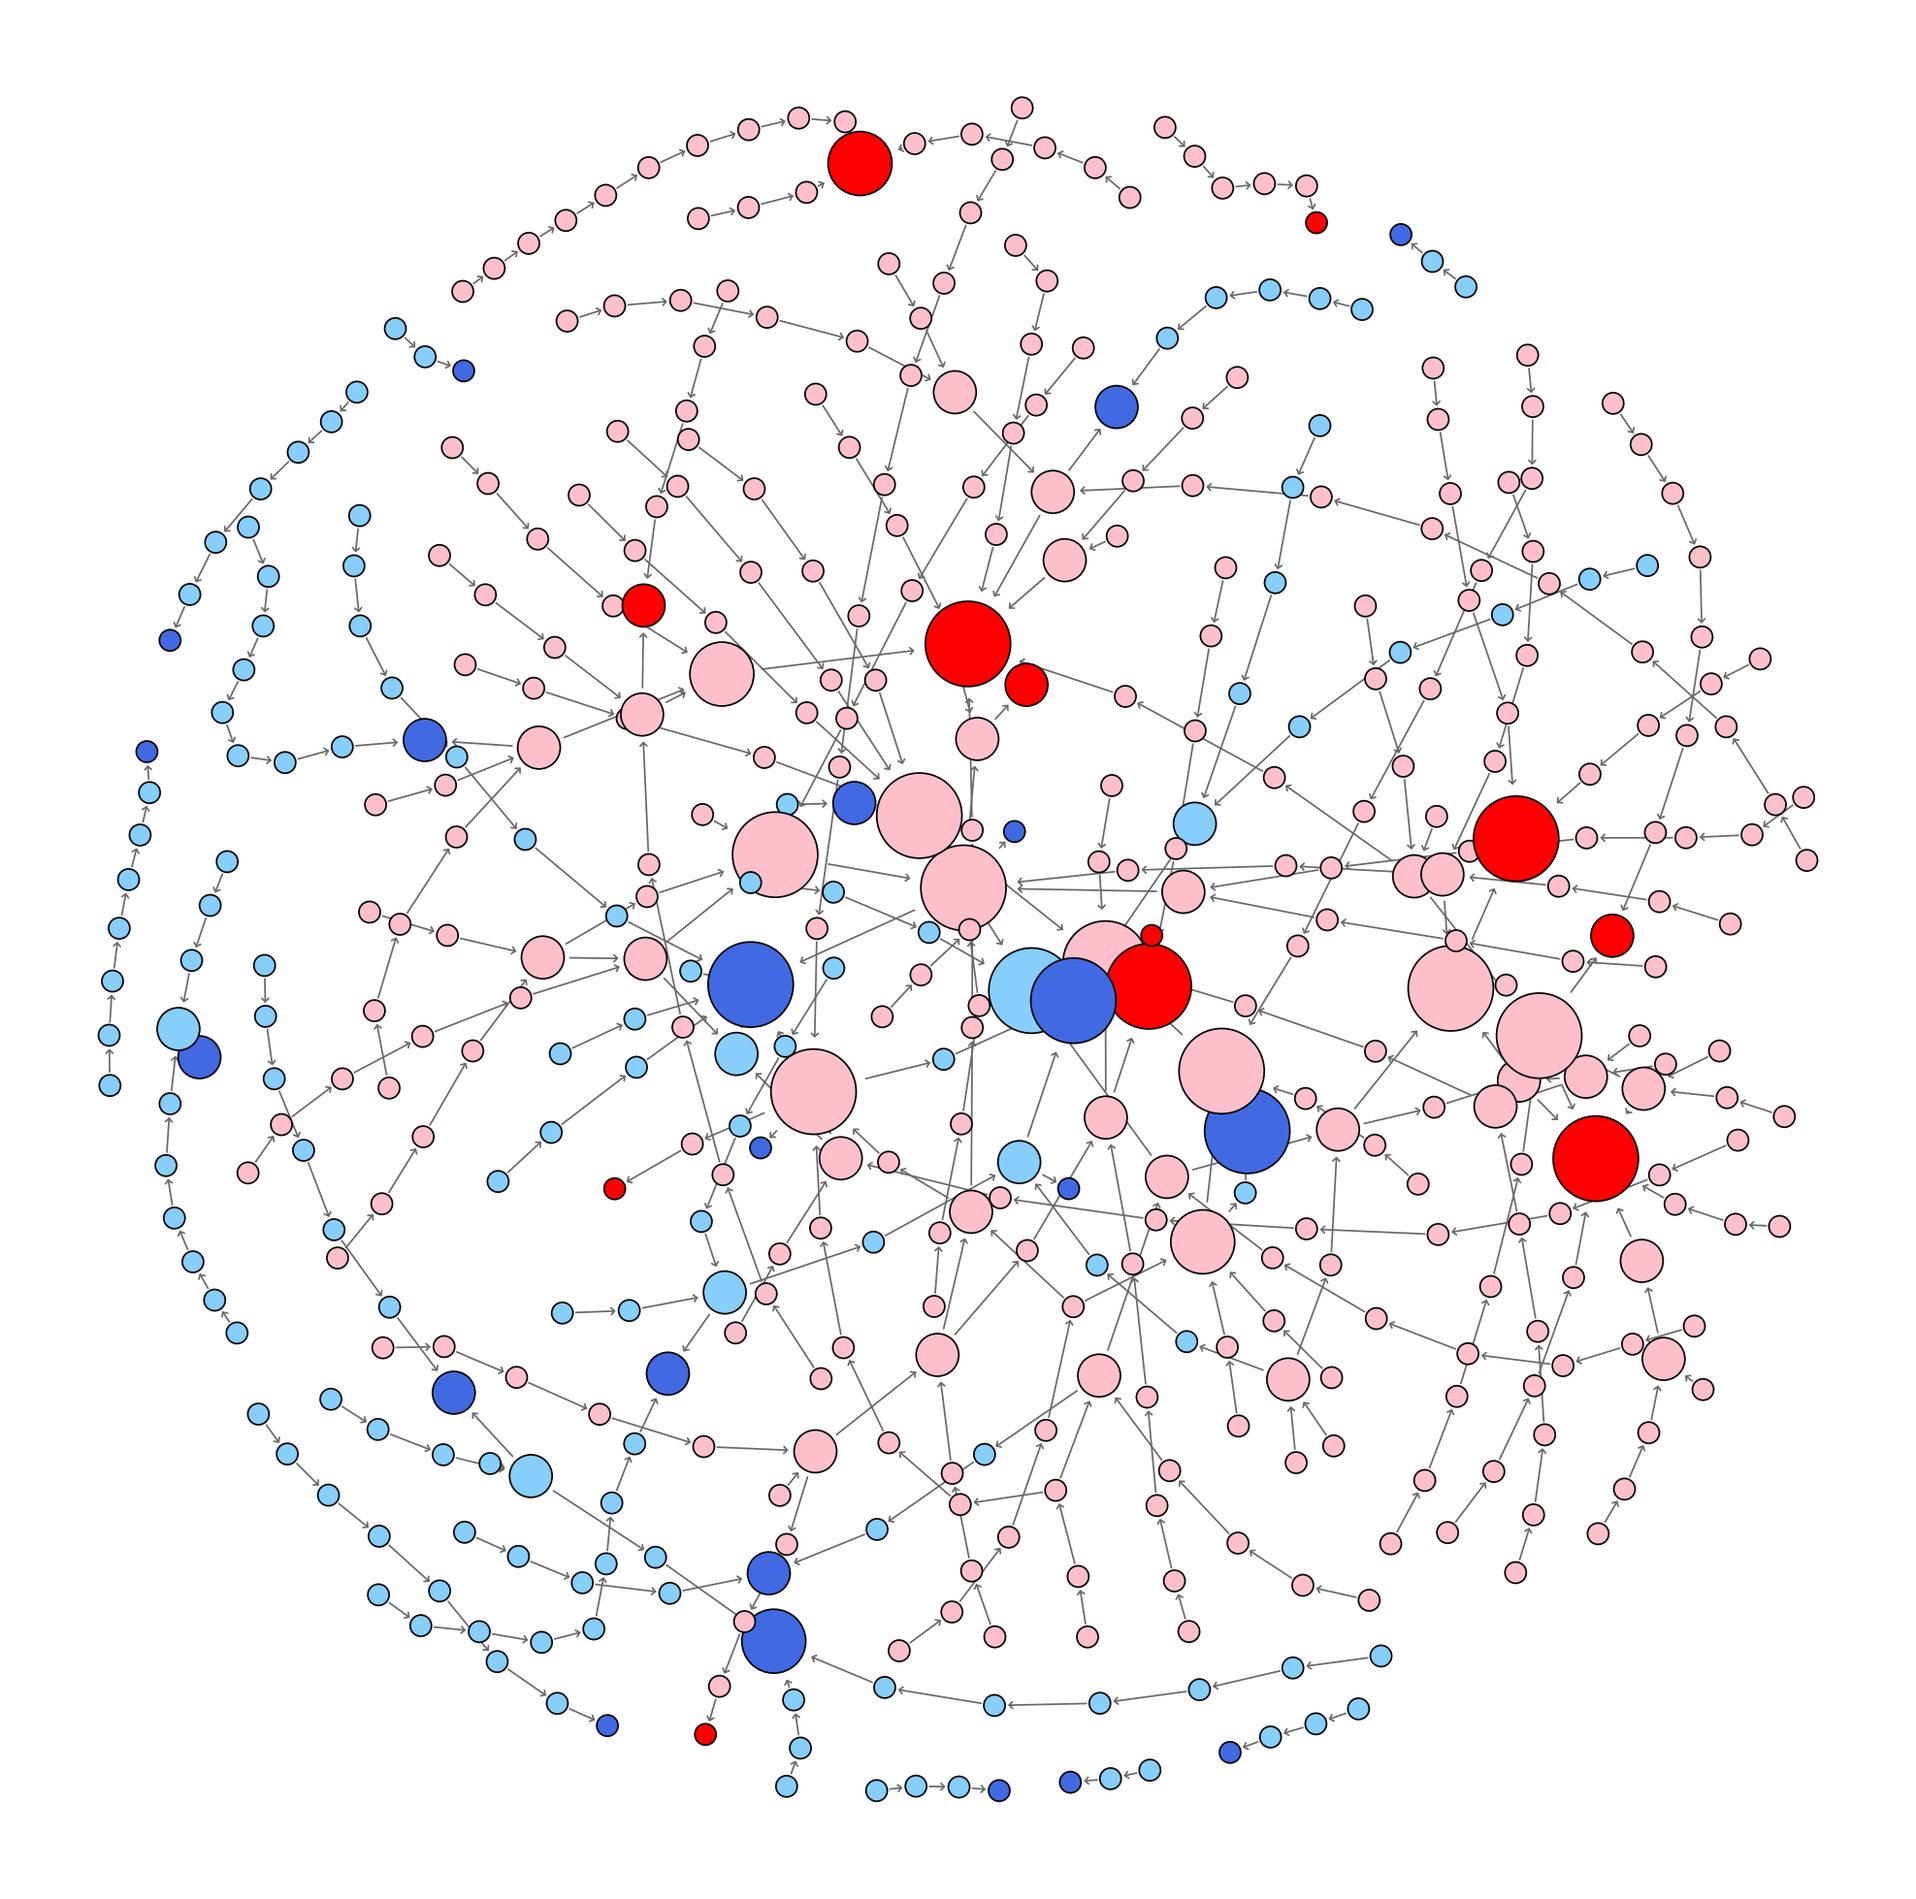
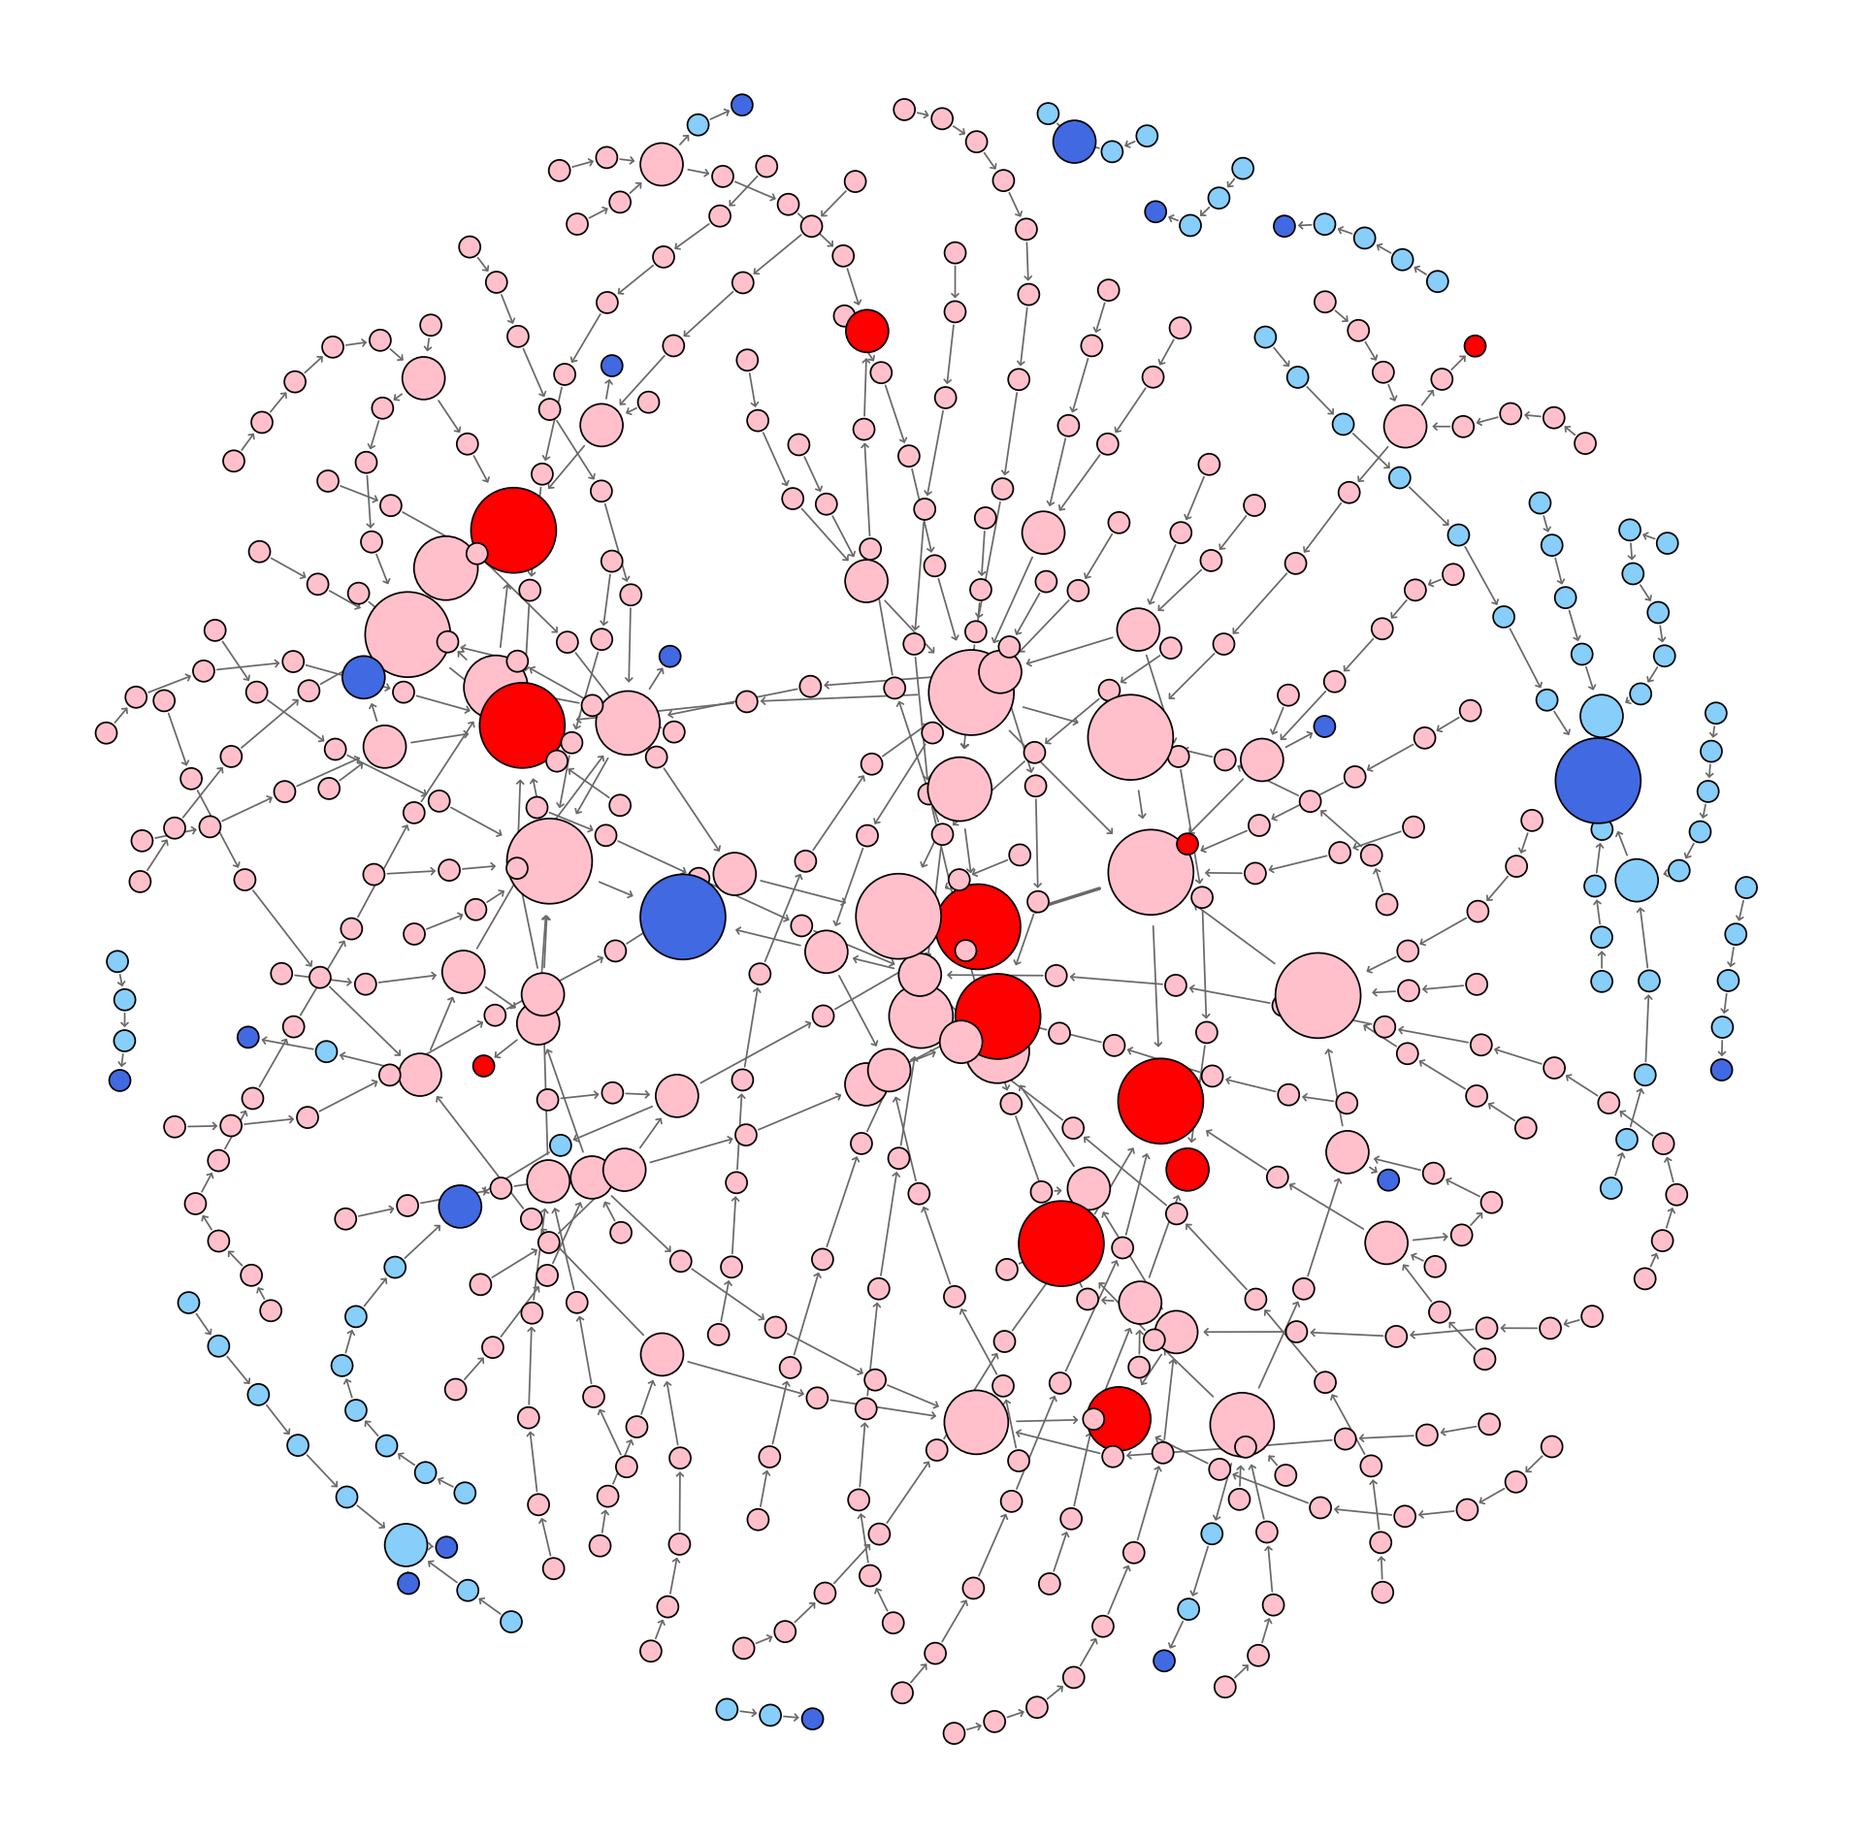
chore: regenerate example figures (#61)

Changed region(s): [[0.0309, 0.0311, 0.9581, 0.9647]]

diff --git a/examples/number_partitioning/plot_lons.py b/examples/number_partitioning/plot_lons.py
@@ -1,6 +1,7 @@
 from pathlib import Path
 
 import matplotlib.pyplot as plt
+from matplotlib.lines import Line2D
 from npp_paths import IMAGES_DIR
 from PIL import Image, ImageOps
 
@@ -12,6 +13,7 @@ from lonkit import (
     LONVisualizer,
     NumberPartitioning,
 )
+from lonkit.visualization import CMLON_LEGEND, COLORS
 
 N = 20
 INSTANCE_SEED = 1
@@ -22,7 +24,6 @@ RANDOM_SEED = 42
 K_VALUES = [0.3, 0.7, 0.95]
 
 TITLE_FONTSIZE = 20
-SUPTITLE_FONTSIZE = 26
 AXIS_TITLE_FONTSIZE_3D = 26  # px
 TICK_FONTSIZE_3D = 18
 
@@ -104,8 +105,30 @@ def render_merged_lon_grid(k_values: list[float], output_dir: Path = Path(IMAGES
         ax_bottom.set_title(f"3D CMLON (k={k})", fontsize=TITLE_FONTSIZE)
         ax_bottom.axis("off")
 
-    fig.suptitle("Number Partitioning CMLON Views", fontsize=SUPTITLE_FONTSIZE, y=0.99)
-    fig.tight_layout(rect=(0, 0, 1, 0.95), h_pad=2.5, w_pad=1.0)
+    handles = [
+        Line2D(
+            [],
+            [],
+            linestyle="none",
+            marker="o",
+            markersize=0.8 * TITLE_FONTSIZE,
+            markerfacecolor=COLORS[key],
+            markeredgecolor="black",
+            markeredgewidth=0.5,
+            label=text,
+        )
+        for key, text in CMLON_LEGEND
+    ]
+    fig.legend(
+        handles=handles,
+        loc="lower center",
+        ncol=len(handles),
+        frameon=False,
+        fontsize=TITLE_FONTSIZE,
+        handletextpad=0.3,
+        columnspacing=1.5,
+    )
+    fig.tight_layout(rect=(0, 0.04, 1, 1), h_pad=2.5, w_pad=1.0)
     fig.savefig(output_dir / "NPP_merged_cmlon_views.png", dpi=200)
     plt.close(fig)
 
@@ -128,7 +151,10 @@ def main():
         cmlon_by_k[k] = cmlon
 
         vis = LONVisualizer(0.5, 1, arrow_size=0.1)
-        vis.plot_2d(cmlon, f"{IMAGES_DIR}/NPP_{k}_2d.png", dpi=250, seed=RANDOM_SEED)
+        fig = vis.plot_2d(cmlon, dpi=250, seed=RANDOM_SEED)
+        fig.axes[0].get_legend().remove()
+        fig.savefig(f"{IMAGES_DIR}/NPP_{k}_2d.png", dpi=250, bbox_inches="tight", facecolor="white")
+        plt.close(fig)
 
     render_3d_lons(cmlon_by_k)
     render_merged_lon_grid(K_VALUES)
